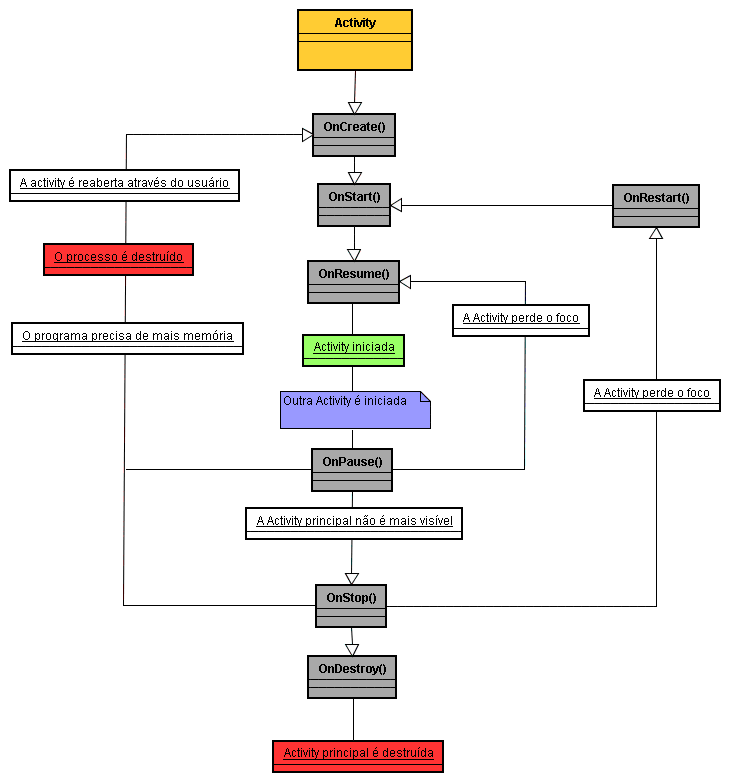
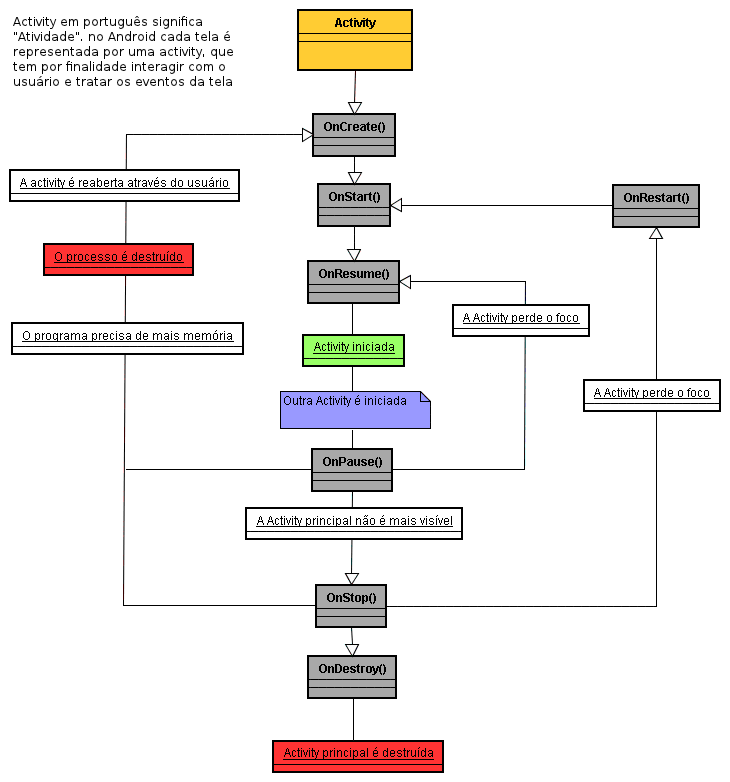
- Substituicao de Google por Android Open Source Project nas referencias - Incremento de algumas seções

Changed region(s): [[0.0, 0.0, 0.3315, 0.1228]]

diff --git a/trabalhofinal/detalhamento.tex b/trabalhofinal/detalhamento.tex
@@ -133,27 +133,93 @@ segurança, gerência de memória, gerência de processos, pilha de rede e model
 drivers. O núcleo também atua como uma camada abstrata entre o hardware e o resto
 da pilha de sofware.
 
-\subsection{Arquitetura de aplicações Android}
+\subsection{Visão geral sobre as aplicações Android}
+
+Aplicações Android são escritas na linguagem de programação Java. O Android SDK
+ compila o código - juntamente com seus dados e demais arquivos - em um pacote 
+ Android, um arquivo com a extensão .apk. É este arquivo que será instalado nos 
+ dispositivos.
+
+Uma aplicação pode ter quatro tipos de componentes:
+\begin{itemize}
+    \item Activity: representa uma tela única na interface com o usuário, e podem 
+    ser traduzidas para o português como atividades. As atividades
+    de uma aplicação são independentes uma das outras, o que possibilita que outra aplicação 
+    abra uma atividade (desde de que tenha as permissões necessárias), sem que seja
+    necessário abrir a aplicação desta atividade
+    Cada atividade é implementada como uma subclasse de Activity. E a definição 
+    completa está em \cite{activity}
+    \item Service: é um componente que executa em background, sem interface com 
+    usuário. Outro componente, como uma atividade, pode iniciar o serviço e deixá-lo 
+    em execução ou interagir com ele. Um serviço é implementado como uma subclasse de 
+    Service. E a definição completa está em \cite{service}
+    \item Content providers: gerencia um conjunto de dados compartilhados da aplicação. 
+    Através deste componente, outras aplicações podem consultar ou mesmo modificar 
+    dados (se for permitido). Um provedor de conteúdo é implementado como uma subclasse 
+    de ContentProvider e deve implementar um conjunto padrão de API's que permite 
+    às outras aplicações realizarem as transações. Um detalhamento sobre os provedores
+    de conteúdo está em \cite{providers}
+    \item Broadcast receivers: é um componente que responde a mensagens enviada ao 
+    sistema operacional. Essas mensagens podem ser originadas do próprio sistema, 
+    como um alerta de do nível de bateria, por exemplo, ou podem ser enviada por 
+    aplicações. Dessa forma, podem ser úteis para fazer a integração entre aplicações.
+    Um "broadcast receiver" é implementado como uma subclasse de BroadcastReceiver.
+\end{itemize}
+
+Um característica única em sistemas Android é que qualquer aplicação pode iniciar 
+um componente de uma outra aplicação. Por exemplo, se você quer enviar alguma mensagem
+para o Twitter, provavelmente irá utilizar uma outra aplicação que já faz isso, em vez
+de desenvolver uma atividade dentro da sua própria aplicação. Você não precisará 
+nem mesmo incorporar ou linkar o código do aplicação do Twitter. Em vez disso, você
+simplesmente inicia a aplicação que enviará a mensagem e depois retornará para a sua 
+aplicação. Para o usuário, irá parecer que o cliente do Twitter é parte da sua aplicação.
+
+Como cada aplicação é executa em um processo separado, com permissões que restrigem 
+o acesso de outras aplicações, sua aplicação não ativa diretamente um componente de 
+outra aplicação. O sistema Android é que faz isso. Assim, para ativar um componente 
+em outra aplicação, você deve enviar uma mensagem para o sistema que determina sua 
+intenção de iniciar um componente em particular. Então, o sistema ativa o componente 
+para você.
+
+Essa flexibilidade é possível graças ao ciclo de vida das atividades, descrito na 
+seção seguinte.
+
+\subsubsection{Ciclo de vida de uma atividade}
+
+Diferentemente de aplicações em outros sistemas, aplicações Android não possuem 
+um único ponto de entrada. Não existe uma função main(), comum na classe principal 
+das aplicações Java. O ciclo de vida de uma atividade é apresentada na Figura \ref{Activity_lifecycle}
 
 \begin{figure}[h]
     \centering
-    \includegraphics[width=10cm]{img/Activity_lifecycle}
-    \caption{Ciclo de vida de uma activity}
+    \includegraphics[width=10cm]{img/android_lecheta}
+    \caption{Ciclo de vida de uma activity (Fonte: \cite{lecheta})}
     \label{Activity_lifecycle}
 \end{figure}
 
+Todos os métodos apresentados na Figura \ref{Activity_lifecycle} são métodos 
+da classe Activity, que deverão ser sobrescritos pelas aplicações, e a chamada a esses
+métodos ficara a cargo do sistema operacional.
 
-\begin{itemize}
-    \item Não existe método main()
-    \item Uma aplicação pode ter quatro tipos de componentes:
-    \item Activity: interfaces com o usuário (tela)
-    \item Service: executa em background, sem interface com o usuário
-    \item Broadcast receivers: apenas recebe e reage a mensagens de broadcast
-    \item Content providers: compartilhar dados da aplicações com outras aplicações
-\end{itemize}
+Além desses métodos há um outro importante método automaticamente executado e de 
+grande importância do que diz respeito a salvar o estado atual da aplicação: 
+{\it onSaveInstanceState(Bundle)}. Este método é executado antes da atividade entrar em 
+background, permitindo que seja salvo estado dinâmico em um objeto {\it Bundle}, para depois 
+ser recuperado em {\it onCreate(Bundle)}, se a atividade precisa ser recriada. No entanto,
+em relação a dados persistentes é necessário que eles sejam salvos no método {\it onPause()}, 
+já que o {\it onSaveInstanceState(Bundle)} não faz parte do ciclo de vida, não sendo chamado 
+em todas as situações.
 
 % ------------------------------------------------------------------------------
 \section{Estudo de caso: Froid - Fortunes for Android}
+
+Como estudo de caso, utilizamos uma aplicação disponibilizada por \cite{abp}, a 
+Froid - Fortunes por Android. Essa aplicação visa disponibilizar um widget que 
+mostre frases aos usuários, sendo possível buscar mais frases na Internet. 
+
+Com base na documentação disponibilizada, definimos uma versão preliminar do feature 
+model da aplicação, apresentado na Figura \ref{fortunes_fm}. Quando possível, utilizaremos
+esta aplicação como exemplo para os conceitos apresentados.
 
 \begin{figure}[h]
     \centering
@@ -162,30 +228,138 @@ da pilha de sofware.
     \label{fortunes_fm}
 \end{figure}
 
+
+
+Um dos elementos de variação mais óbvios nos dispositivos móveis é o tamanho das telas.
+Além disso, os aparelhos podem estar na posição vertical ou retrato, e, idealmente, 
+as aplicações devem se adequar corretamente, aproveitando os espaços disponíves, ou 
+adequando-se ao pouco espaço. O Android já fornece um mecanismo de layout relativo,
+e como a interface do Froid é bastante simples, não foi necessário a definição de 
+mais de um layout, no entanto, foi necessário implementar o {\it onSaveInstanceState(Bundle)}
+para que quando o usuário rotacionasse o dispositivo, a frase exibida não fosse alterada, 
+conforme exibido na Figura \ref{onSaveInstanceState}
+
+\begin{figure}[h]
+    \centering
+    \includegraphics[width=10cm]{img/onSaveInstanceState}
+    \caption{Método {\it onSaveInstanceState(Bundle)} da aplicação Froid}
+    \label{onSaveInstanceState}
+\end{figure}
+
+
 % ..............................................................................
 \section{Pontos de variações em dispositivos com Android}
 
+Nessa seção, apresentaremos os pontos de variação em dispositivos com Android,
+quando possível apresentaremos um exemplo com a aplicação Froid ou a de Times(?????)
+
+\subsection{Versão da API}
+
+A primeira versão da API do Android foi disponibilizada em outubro de 2008. De lá 
+para cá, ele vem passando por diversas modificações, sendo a maioria deles ou 
+introdução ou substituições de funcionalidades. Como partes da API são autualizadas, 
+as partes antigas são marcadas como obsoletas e não removidas, assim aplicações feitas
+com versões antigas da API continuarão funcionando nas mais recentes.
+
+As versões da API são identificadas por um valor inteiro único chamado de {\it API Level},
+distribuidas juntamente com as versões da plataforma Android. A Figura \ref{api_level} 
+apresenta a relação entre versão da plataforma e {\it API Level}, além da distribuição.
+
+\begin{figure}[h]
+    \centering
+    \includegraphics[width=15cm]{img/api_level}
+    \caption{Distribuição da versão da plataforma e API Level (Fonte: \cite{platform_versions}) }
+    \label{api_level}
+\end{figure}
+
+\subsection{Tamanhos e densidade das telas}
+
+O Android executa em uma grande variedade de dispositivos, com diferentes tamanhos
+ de telas e densidades. Para facilitar o projeto de interface para diferentes 
+ configurações, a plataforma divide os atuais intervalos de tamanhos de telas e
+ densidades em grupos, conforme abaixo:
 \begin{itemize}
-    \item Versão da API
-    \item Dispositivos com ou sem sensores
-    \item Gráficos 2D ou 3D
-    \item Mecanismo de interação
-    \item Pacote de compatibilidade
-    \item Versão da OpenGL ES
-    \item Android NDK           
-    \item Tamanhos e densidade das telas
-    \item Línguas internacionais
+    \item Tamanhos de tela: small, normal, large, e xlarge
+    \item Densidades: ldpi (low), mdpi (medium), hdpi (high), e xhdpi (extra high)
 \end{itemize}
+ 
+A Figura \ref{intervalos_telas} ilustra como os diferentes tamanhos de telas 
+(em polegadas) e 
+densidades (em dpi) são categorizados nesses diferentes grupos.
+
+\begin{figure}[h]
+    \centering
+    \includegraphics[width=15cm]{img/intervalos_telas}
+    \caption{Relação entre tamanhos de telas e densidades e seus respectivos grupos 
+        (Fonte: \cite{sup_multi_screens}) }
+    \label{intervalos_telas}
+\end{figure}
+
+A Figura \ref{distribuicao_telas} apresenta a distribuição atual de tamanhos 
+de tela e densidade.
+
+\begin{figure}[h]
+    \centering
+    \includegraphics[width=15cm]{img/api_level}
+    \caption{Distribuição atual de tamanhos de tela e densidades (Fonte: \cite{sup_multi_screens})}
+    \label{distribuicao_telas}
+\end{figure}
+
+
+\subsection{Versão da OpenGL ES}
+
+O Android oferece suporte para gráficos otimizados através de uma biblioteca 2D 
+customizada. Quando suportado pelo hardware do dispositivo, gráficos 3D serão 
+providos pela biblioteca OpenGL ES. A Figura \ref{distribuicao_opengl} apresenta 
+a distribuição atual de versões dessa biblioteca encontradas nos aparelhos.
+
+\begin{figure}[h]
+    \centering
+    \includegraphics[width=15cm]{img/opengl}
+    \caption{Distribuição atual da OpenGL ES (Fonte: \cite{opengl_versions})}
+    \label{distribuicao_opengl}
+\end{figure}
+
+
+\subsection{Sensores do dispositivo}
+
+Android oferece suporte para diversos tipos de sensores e hardware presentes nos 
+dispositivos. Contudo, nem todos os dispositivos terão todos os tipos de sensores.
+Sensores e hardware que poderão ou não estar presentes nos dispositivos incluem:
+\begin{itemize}
+    \item Acelerômetro
+    \item Câmera
+    \item Sensor de luminosidade
+    \item Bluetooth
+    \item Wifi
+    \item Live wallpaper
+    \item GPS
+    \item Microfone
+    \item Sensor de proximidade
+    \item Telefone VoIP baseado em SIP
+    \item Telefonia CDMA e/ou GSM
+    \item Tela sensível a toque e/ou multitoque
+    \item USB
+\end{itemize}
+
+
+\subsection{Mecanismo de interação}
+
+
+\subsection{Línguas internacionais}
+
 
 % ..............................................................................
 \section{Mecanismos de controle de variabilidades}
 \begin{itemize}
-    \item  Polimorfismo
+    \item Polimorfismo
     \item Reflexão
     \item Classe wrapper
     \item Checagens de versão da API e de recursos do aparelho em tempo de execução
     \item Atributos final e Compilação Condicional 
     \item Recursos da Aplicação
+    \item Android NDK
+    \item Pacote de compatibilidade
 \end{itemize}
 
 % ..............................................................................
